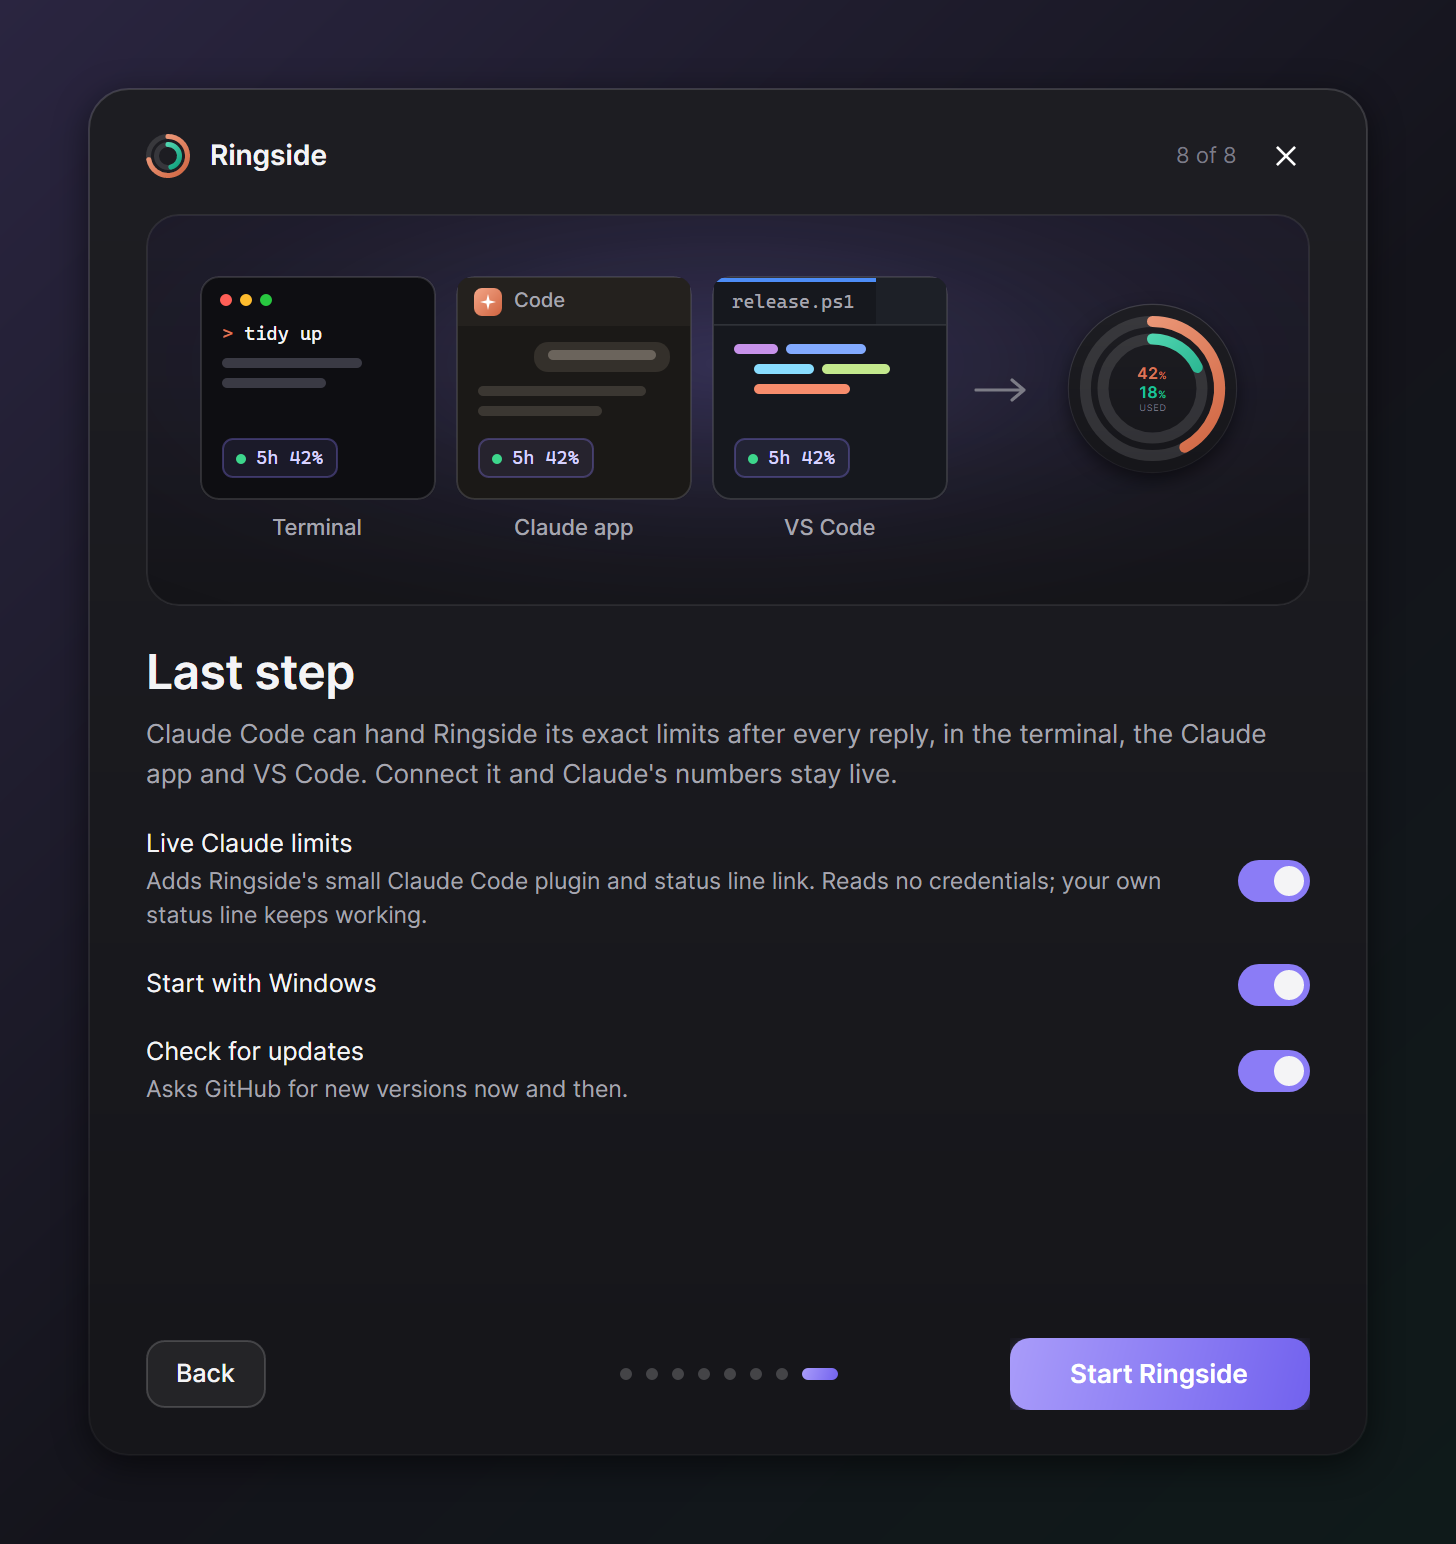
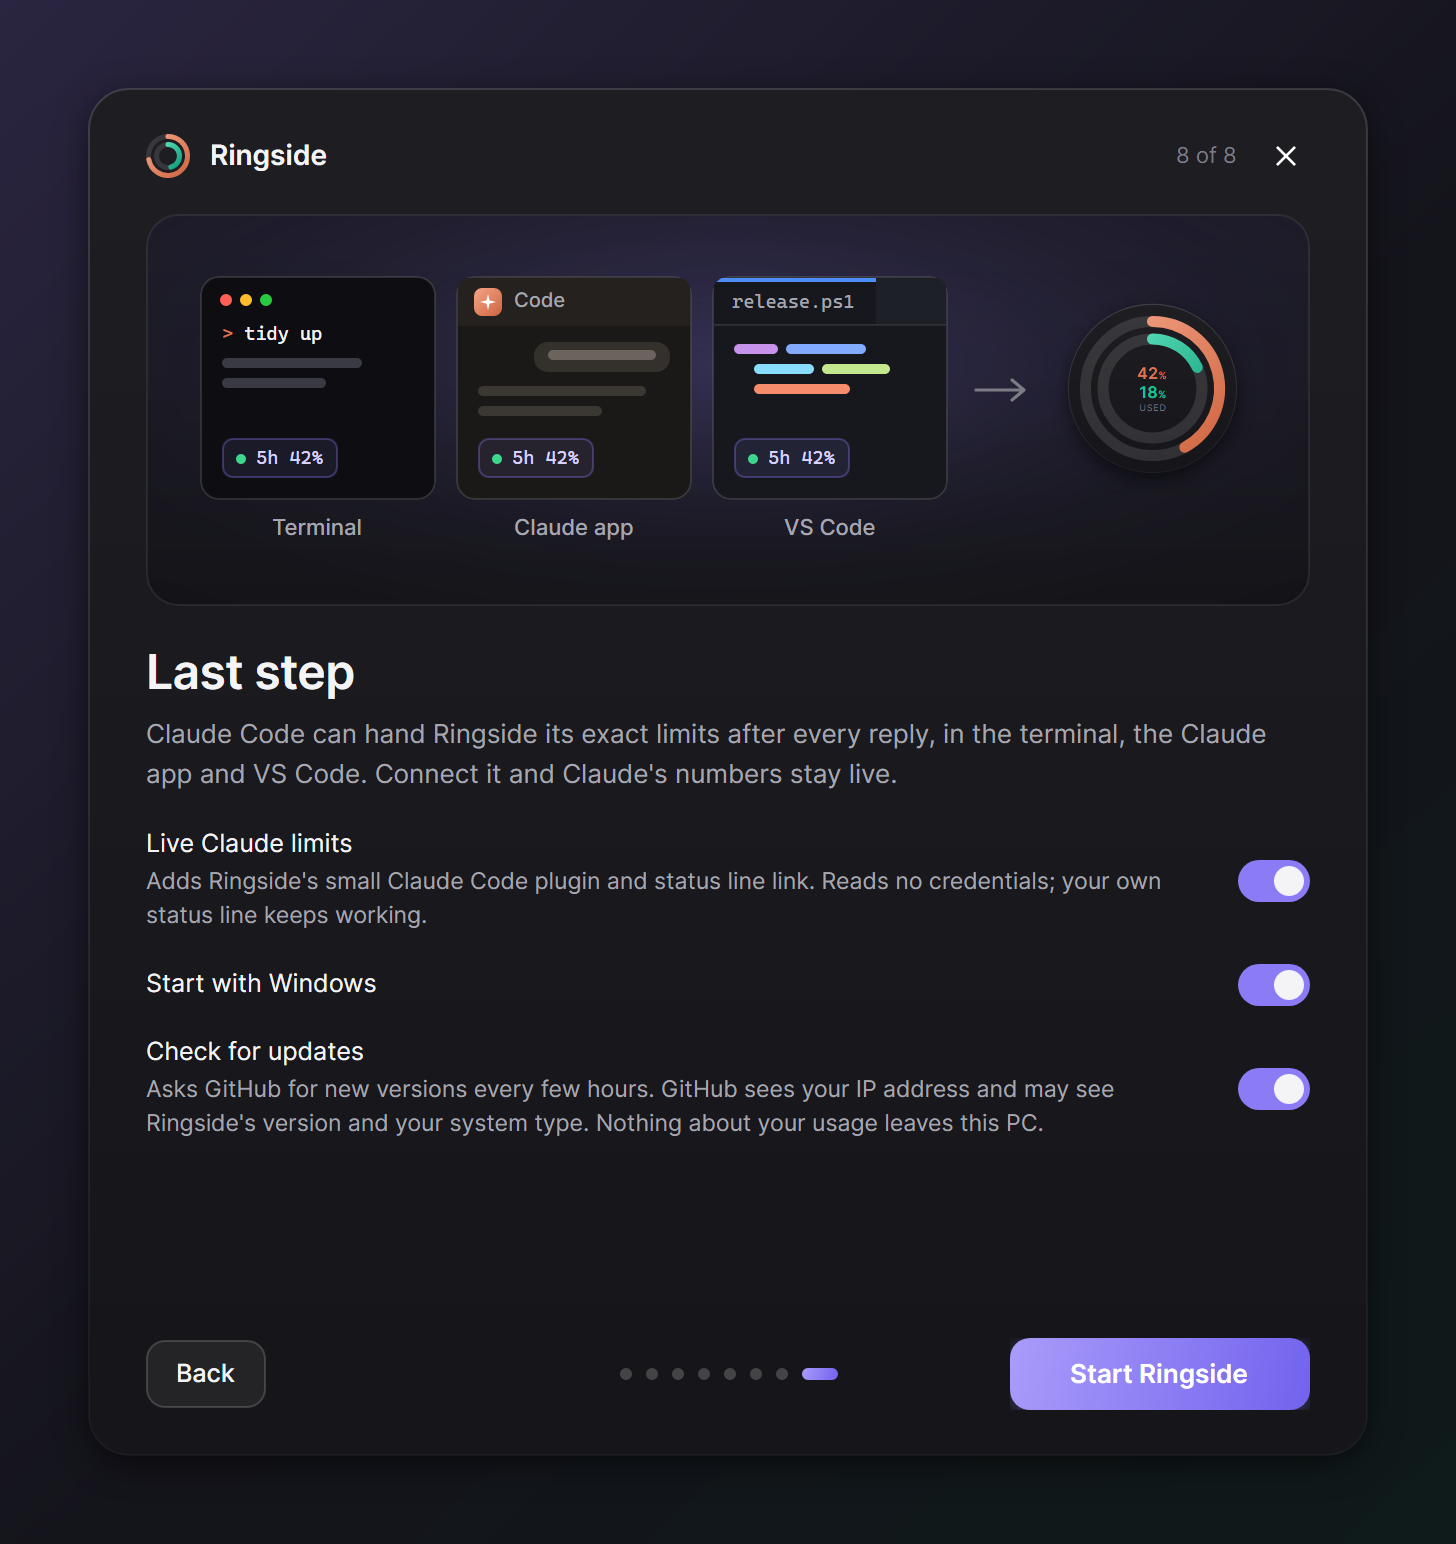
Privacy wording: say update checks reach GitHub (2.0.4)
The welcome card's chip said "Nothing leaves this PC", but update checks, on by
default, do reach GitHub. It now says "Your usage stays on this PC" (this Mac /
this computer). The Check for updates switch, in the welcome cards and in Settings,
now says what GitHub sees, from one shared string. Text only; both renders of the
changed welcome cards are refreshed from the real UI.

Wording cleaned at aitextclean.com and ruled by the coordinator (2026-10-26).

Changed region(s): [[0.0927, 0.6839, 0.7727, 0.7461], [0.8345, 0.6528, 0.8963, 0.7461]]

diff --git a/src/Ringside/OnboardingWindow.cs b/src/Ringside/OnboardingWindow.cs
@@ -175,7 +175,7 @@ public sealed class OnboardingWindow : CardWindow
             },
         };
         hero.Margin = new Thickness(0, 10, 0, 0);
-        var chips = new StackPanel { Orientation = Orientation.Horizontal, Spacing = 8, Children = { Art.Chip("100% free"), Art.Chip("Open source"), Art.Chip("No account"), Art.Chip("Nothing leaves " + Paths.ThisComputer) } };
+        var chips = new StackPanel { Orientation = Orientation.Horizontal, Spacing = 8, Children = { Art.Chip("100% free"), Art.Chip("Open source"), Art.Chip("No account"), Art.Chip("Your usage stays on " + Paths.ThisComputer) } };
         return Page(hero, "Meet Ringside",
             $"Your Claude and Codex limits, always in view. Ringside reads the usage numbers your apps already keep on {Paths.ThisComputer}. It never reads your login and never sends your usage anywhere.",
             chips, heroHeight: 330);
@@ -337,7 +337,7 @@ public sealed class OnboardingWindow : CardWindow
             {
                 hook,
                 Kit.Switch(Os.LoginItemLabel, null, _login, on => _login = on),
-                Kit.Switch("Check for updates", "Asks GitHub for new versions now and then.", _updates, on => _updates = on),
+                Kit.Switch("Check for updates", Updates.CheckDescription, _updates, on => _updates = on),
             },
         };
         var meter = Preview(Look(s => s.View = ViewKind.Orb), Both, scale: 0.55);

diff --git a/src/Ringside/SettingsWindow.cs b/src/Ringside/SettingsWindow.cs
@@ -264,7 +264,7 @@ public sealed class SettingsWindow : CardWindow
         if (Os.SupportsFullScreenHide)
             p.Children.Add(Kit.Switch("Hide over full-screen apps", "Steps aside for games, videos and presentations.", S.HideOverFullScreen, on => Set(s => s.HideOverFullScreen = on)));
         p.Children.Add(Kit.Switch(Os.LoginItemLabel, null, _host.Demo || AutoStart.Enabled, on => { if (!_host.Demo) AutoStart.Set(on); }));
-        p.Children.Add(Kit.Switch("Check for updates", "Asks GitHub for new versions now and then. Nothing about your usage leaves " + Paths.ThisComputer + ".", S.CheckForUpdates, on => Set(s => s.CheckForUpdates = on)));
+        p.Children.Add(Kit.Switch("Check for updates", Updates.CheckDescription, S.CheckForUpdates, on => Set(s => s.CheckForUpdates = on)));
 
         p.Children.Add(Kit.Section("Layout"));
         p.Children.Add(new StackPanel

diff --git a/src/Ringside/Platform/Services.cs b/src/Ringside/Platform/Services.cs
@@ -209,6 +209,11 @@ public sealed class Updates
     /// <summary>Why the last check failed, or null when it got an answer.</summary>
     public string? LastError { get; private set; }
 
+    /// <summary>What the update check switch says it sends, in the welcome cards and in Settings.</summary>
+    public static string CheckDescription =>
+        "Asks GitHub for new versions every few hours. GitHub sees your IP address and may see Ringside's version and your system type. " +
+        "Nothing about your usage leaves " + Paths.ThisComputer + ".";
+
     public static string CurrentVersion =>
         typeof(Updates).Assembly.GetName().Version is { } v ? $"{v.Major}.{v.Minor}.{v.Build}" : "dev";
 

diff --git a/CHANGELOG.md b/CHANGELOG.md
@@ -1,5 +1,10 @@
 # Changelog
 
+## 2.0.4 (2026-10-26)
+
+- The welcome card now says your usage stays on your computer. It used to say nothing leaves it, but update checks do reach GitHub.
+- Check for updates now says what GitHub sees: your IP address, and maybe Ringside's version and your system type.
+
 ## 2.0.3 (2026-10-26)
 
 - Updates get through even when GitHub is busy. If GitHub's API turns the update check away, which it can do when many people share one internet connection, Ringside now checks the latest release's own download link instead.
